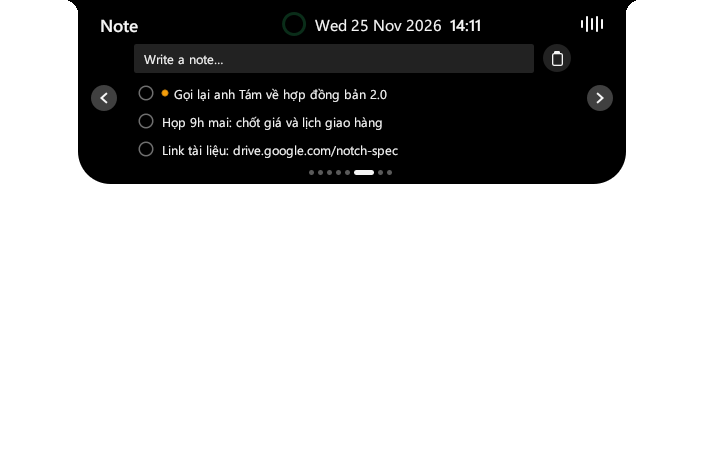
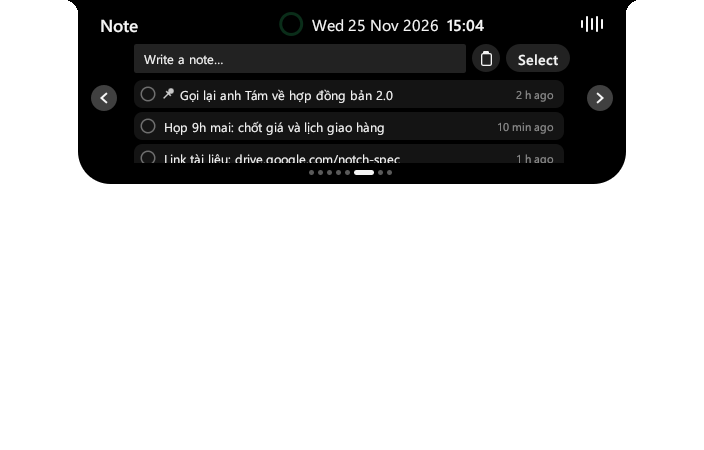
Docs: choosing notes to delete, Settings › Note, new Note screenshot

diff --git a/app/MECHANICS.md b/app/MECHANICS.md
@@ -430,9 +430,13 @@ set), back to ~32 MB within 20 s of closing. Cover art and app logos account for
   rearranged one keeps its order with Note at the end; hidden pages stay hidden.
 - `notes.txt`, one note per line: `created|flags|text`, flags `p` (pinned) and `d2026-11-25` (done
   that day), text escaped like the clipboard history (`\n`, `\\`). Plain text, by choice.
-- After every change: notes are cut to 500 characters, ones done over 3 days ago are dropped, at
-  most 200 are kept (oldest done first, then the oldest unpinned open one), sorted pinned, open,
-  done, newest first.
+- After every change (and at start): notes are cut to 500 characters, ones done longer ago than
+  Settings › Note says (1, 3 or 7 days, or never; 3 by default) are dropped, at most 200 are kept
+  (oldest done first, then the oldest unpinned open one), sorted pinned, open, done, newest first.
+  A line of `notes.txt` that doesn't read sends the whole file to `notes.bak` before the next save.
+- Each note is a card: done circle, a push pin when pinned, the text on one line, and when it was
+  written on the right (Settings › Note can hide it). "Copied" marks the clicked note by its place,
+  since texts can repeat. "Select" ticks notes; "Delete (N)" needs a second click within 3 s.
 - Enter in the box saves (and keeps the cursor there); the clipboard button adds the clipboard's
   text unless it is marked private (`tray::clipboard_private`). Click copies ("Copied" for 2 s),
   drag goes out through `dragout::text`, the circle toggles done, right-click pins / finishes / deletes.

diff --git a/README.vi.md b/README.vi.md
@@ -155,6 +155,9 @@ Sắp xếp lại hoặc ẩn từng trang trong **Settings › Pages**.
   đánh dấu riêng tư, giống Clipboard).
 - **Click** một ghi chú để chép, **kéo** ra ô chat hoặc thư mục, bấm **vòng tròn** để đánh dấu xong
   (gạch ngang, tự xóa sau 3 ngày); **click phải** để ghim, đánh dấu xong hoặc xóa.
+- **Chọn** để đánh dấu nhiều ghi chú rồi xóa một lần (**Chọn tất cả**, bấm **Xóa** 2 lần để xác
+  nhận). Settings › Ghi chú: ghi chú đã xong tự xóa sau bao lâu (1 / 3 / 7 ngày hoặc không bao giờ) và
+  có hiện giờ ghi trên mỗi ghi chú hay không.
 - **`Ctrl + Alt + N`** mở trang này với con trỏ sẵn trong ô gõ, từ bất kỳ đâu.
 - Ghi chú đã ghim lên đầu, rồi tới cái mới nhất; tối đa 200 ghi chú, mỗi cái tối đa 500 ký tự, lưu
   trong `notes.txt`.

diff --git a/README.fr.md b/README.fr.md
@@ -162,6 +162,9 @@ Réordonnez ou masquez les pages dans **Settings › Pages**.
 - **Cliquez** sur une note pour la copier, **faites-la glisser** dans une conversation ou un dossier,
   cliquez sur son **cercle** pour la terminer (barrée, supprimée 3 jours plus tard) ; **clic droit**
   pour épingler, terminer ou supprimer.
+- **Choisir** coche plusieurs notes à supprimer d'un coup (**Tout choisir**, puis **Supprimer** deux
+  fois pour confirmer). Réglages › Notes : durée de conservation des notes terminées (1 / 3 / 7 jours
+  ou jamais) et affichage de l'heure de chaque note.
 - **`Ctrl + Alt + N`** ouvre cette page avec le curseur dans le champ, de n'importe où.
 - Les notes épinglées d'abord, puis les plus récentes ; jusqu'à 200 notes de 500 caractères au plus,
   gardées dans `notes.txt`.

diff --git a/README.zh-CN.md b/README.zh-CN.md
@@ -134,6 +134,7 @@
 
 - 输入便签后按 **回车**；输入框旁的按钮把刚复制的文字存为便签（与 Clipboard 一样，不收取标记为隐私的内容）。
 - **点击** 便签即复制，**拖动** 到聊天框或文件夹，点击 **圆圈** 标记完成（加删除线，3 天后自动删除）；**右键** 置顶、完成或删除。
+- **选择** 可勾选多条便签一次删除（**全选**，再按两次 **删除** 确认）。Settings › 便签：已完成的便签保留多久（1 / 3 / 7 天或永久），以及是否显示每条便签的时间。
 - 在任何地方按 **`Ctrl + Alt + N`** 打开此页，光标已在输入框中。
 - 置顶的在最前，其次是最新的；最多 200 条，每条最多 500 个字符，保存在 `notes.txt`。
 

diff --git a/README.md b/README.md
@@ -157,6 +157,9 @@ Reorder or hide pages in **Settings › Pages**.
   note (not text marked private, as with the Clipboard).
 - **Click** a note to copy it, **drag** it into a chat or a folder, click its **circle** to mark it
   done (struck through, removed 3 days later); **right-click** to pin, finish or delete.
+- **Select** ticks notes to delete several at once (**Select all**, then **Delete** twice to
+  confirm). Settings › Note: how long finished notes stay (1 / 3 / 7 days or never) and whether
+  each note shows when it was written.
 - **`Ctrl + Alt + N`** opens this page with the cursor in the box, from anywhere.
 - Pinned notes first, then the newest; up to 200 notes of up to 500 characters, kept in `notes.txt`.
 

diff --git a/CLAUDE.md b/CLAUDE.md
@@ -31,7 +31,7 @@ cargo clippy --release
 
 `notch.exe --screenshot <file.png>` renders one frame and exits. Add `--page N` (page id),
 `--demo` (sample data for Music, Water, To-do, Today, Note, Ask), `--resting`, `--settings [section]`,
-`--ask`, `--clips`, `--lang N` (0 EN, 1 VI, 2 ZH, 3 FR), `--weather SYMBOL`, or
+`--ask`, `--clips`, `--select` (with `--page 8 --demo`: choosing notes), `--lang N` (0 EN, 1 VI, 2 ZH, 3 FR), `--weather SYMBOL`, or
 `--popup welcome|taken|notice|notice-long|notice-logo|song|bluetooth|brightness`. Compare pages
 before and after a change this way; only the clock text should differ between runs.
 
